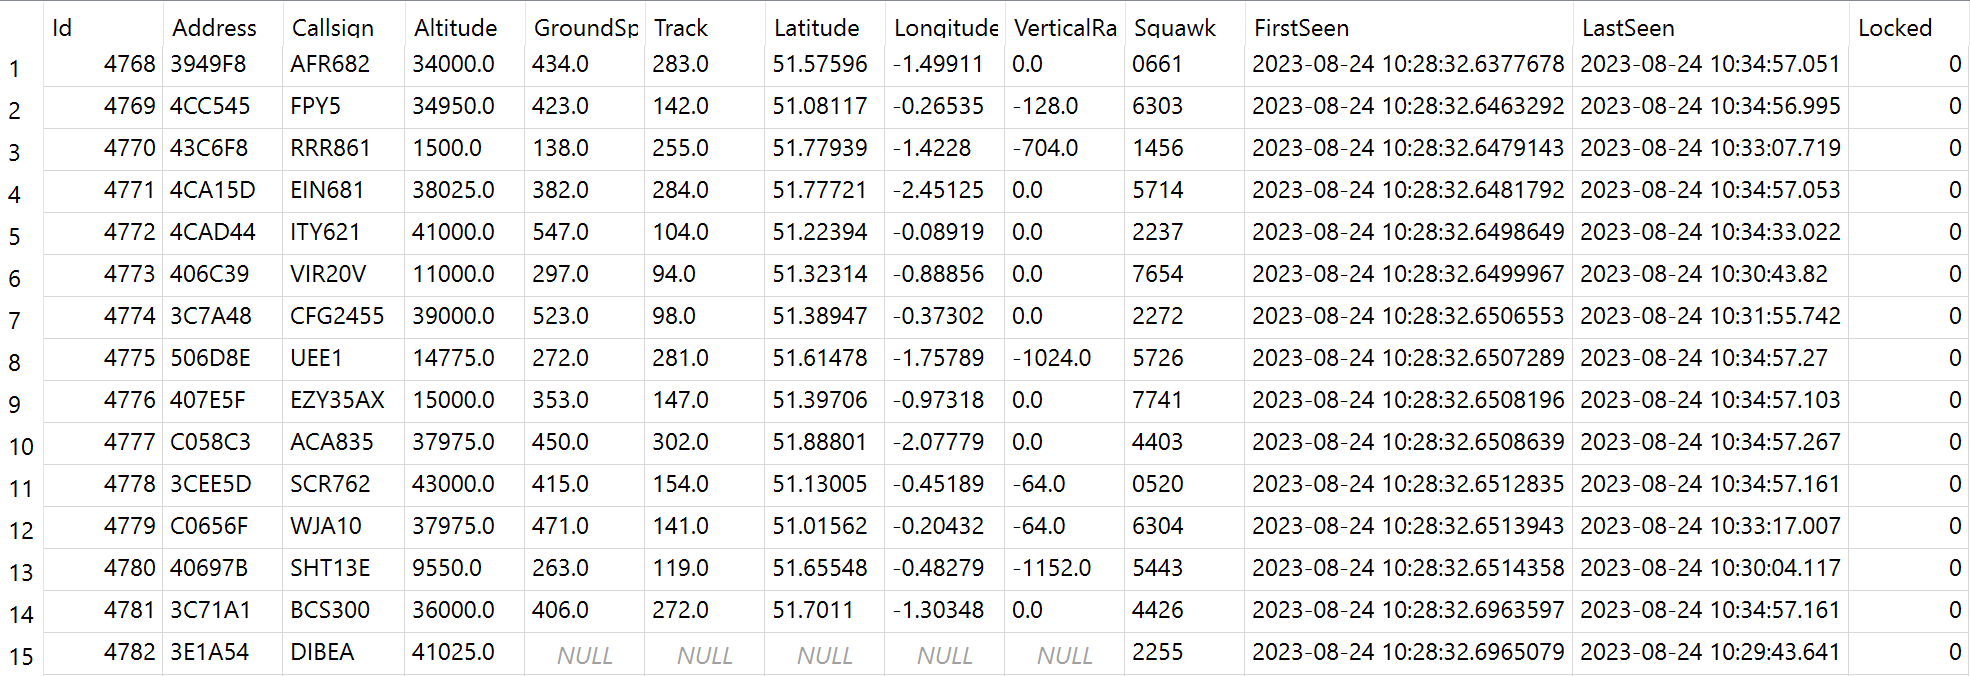
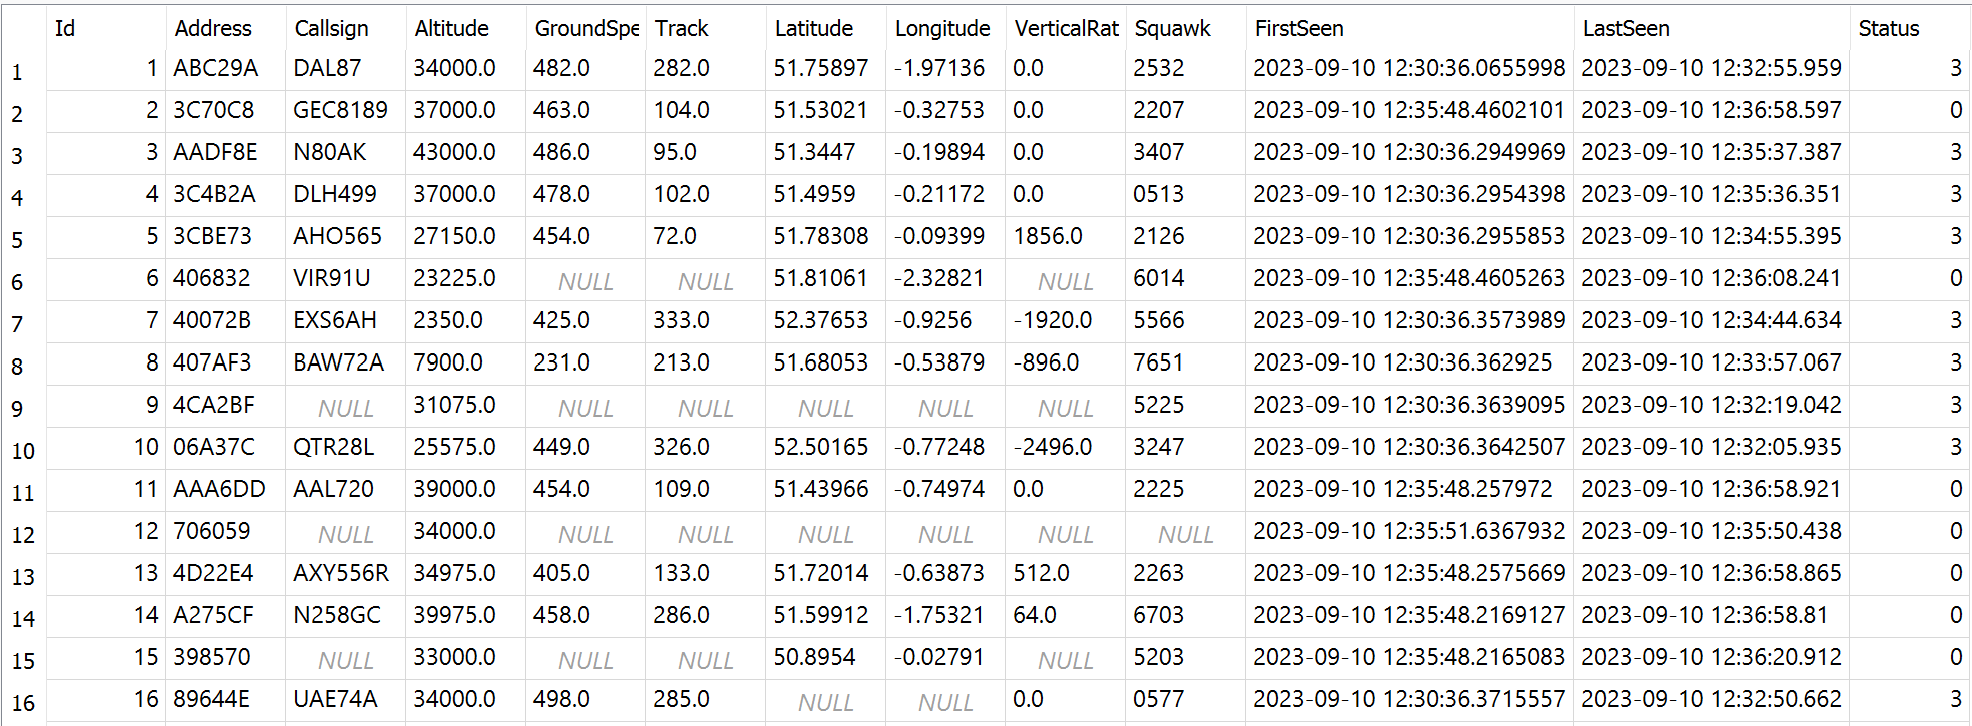
Replace Locked flag and Staleness with a single status

Changed region(s): [[0.0, 0.0, 1.0, 1.0], [0.0, 0.9009, 0.031, 0.932], [0.0, 0.8388, 0.031, 0.8698]]

diff --git a/src/BaseStationReader.Logic/Tracking/AircraftTracker.cs b/src/BaseStationReader.Logic/Tracking/AircraftTracker.cs
@@ -219,7 +219,7 @@ namespace BaseStationReader.Logic.Tracking
                     if (updated != null && original != updated)
                     {
                         aircraftProperty.SetValue(aircraft, updated);
-                        aircraft.Staleness = Staleness.New;
+                        aircraft.Status = TrackingStatus.Active;
                         changed = true;
                     }
                 }
@@ -259,7 +259,7 @@ namespace BaseStationReader.Logic.Tracking
                         }
                         else if (elapsed >= _staleMs)
                         {
-                            aircraft.Staleness = Staleness.Stale;
+                            aircraft.Status = TrackingStatus.Stale;
                             AircraftUpdated?.Invoke(this, new AircraftNotificationEventArgs
                             {
                                 Aircraft = aircraft,
@@ -268,7 +268,7 @@ namespace BaseStationReader.Logic.Tracking
                         }
                         else if (elapsed >= _recentMs)
                         {
-                            aircraft.Staleness = Staleness.Recent;
+                            aircraft.Status = TrackingStatus.Inactive;
                             AircraftUpdated?.Invoke(this, new AircraftNotificationEventArgs
                             {
                                 Aircraft = aircraft,

diff --git a/src/BaseStationReader.Tests/QueuedWriterTest.cs b/src/BaseStationReader.Tests/QueuedWriterTest.cs
@@ -165,7 +165,7 @@ namespace BaseStationReader.Tests
             var added = Task.Run(() => _aircraftWriter!.GetAsync(x => x.Address == Address)).Result;
             Assert.IsNotNull(added);
             Assert.IsTrue(added.Id > 0);
-            Assert.IsFalse(added.Locked);
+            Assert.AreNotEqual(TrackingStatus.Locked, added.Status);
 
             Push(new Aircraft
             {
@@ -205,7 +205,7 @@ namespace BaseStationReader.Tests
             var aircraft = Task.Run(() => _aircraftWriter!.GetAsync(x => x.Address == Address)).Result;
             Assert.IsNotNull(aircraft);
             Assert.IsTrue(aircraft.Id > 0);
-            Assert.IsFalse(aircraft.Locked);
+            Assert.AreNotEqual(TrackingStatus.Locked, aircraft.Status);
 
             _writer!.Stop();
             _writer.Start();
@@ -214,7 +214,7 @@ namespace BaseStationReader.Tests
             var locked = Task.Run(() => _aircraftWriter!.GetAsync(x => x.Address == Address)).Result;
             Assert.IsNotNull(locked);
             Assert.AreEqual(aircraft.Id, locked.Id);
-            Assert.IsTrue(locked.Locked);
+            Assert.AreEqual(TrackingStatus.Locked, aircraft.Status);
         }
 
         /// <summary>

diff --git a/src/BaseStationReader.Data/Migrations/20230910112721_AircraftStatus.Designer.cs b/src/BaseStationReader.Data/Migrations/20230910112721_AircraftStatus.Designer.cs
@@ -3,6 +3,7 @@ using System;
 using BaseStationReader.Data;
 using Microsoft.EntityFrameworkCore;
 using Microsoft.EntityFrameworkCore.Infrastructure;
+using Microsoft.EntityFrameworkCore.Migrations;
 using Microsoft.EntityFrameworkCore.Storage.ValueConversion;
 
 #nullable disable
@@ -10,9 +11,11 @@ using Microsoft.EntityFrameworkCore.Storage.ValueConversion;
 namespace BaseStationReader.Data.Migrations
 {
     [DbContext(typeof(BaseStationReaderDbContext))]
-    partial class BaseStationReaderDbContextModelSnapshot : ModelSnapshot
+    [Migration("20230910112721_AircraftStatus")]
+    partial class AircraftStatus
     {
-        protected override void BuildModel(ModelBuilder modelBuilder)
+        /// <inheritdoc />
+        protected override void BuildTargetModel(ModelBuilder modelBuilder)
         {
 #pragma warning disable 612, 618
             modelBuilder.HasAnnotation("ProductVersion", "7.0.10");

diff --git a/src/BaseStationReader.Data/BaseStationReaderDbContext.cs b/src/BaseStationReader.Data/BaseStationReaderDbContext.cs
@@ -20,8 +20,6 @@ namespace BaseStationReader.Data
         /// <param name="modelBuilder"></param>
         protected override void OnModelCreating(ModelBuilder modelBuilder)
         {
-            modelBuilder.Entity<Aircraft>().Ignore(e => e.Staleness);
-
             modelBuilder.Entity<Aircraft>(entity =>
             {
                 entity.ToTable("AIRCRAFT");
@@ -39,7 +37,7 @@ namespace BaseStationReader.Data
                 entity.Property(e => e.Longitude).HasColumnName("Longitude");
                 entity.Property(e => e.VerticalRate).HasColumnName("VerticalRate");
                 entity.Property(e => e.Squawk).HasColumnName("Squawk");
-                entity.Property(e => e.Locked).HasColumnName("Locked");
+                entity.Property(e => e.Status).HasColumnName("Status");
 
                 entity.Property(e => e.FirstSeen)
                     .IsRequired()

diff --git a/src/BaseStationReader.Data/Migrations/20230910112721_AircraftStatus.cs b/src/BaseStationReader.Data/Migrations/20230910112721_AircraftStatus.cs
@@ -1,0 +1,28 @@
+using Microsoft.EntityFrameworkCore.Migrations;
+
+#nullable disable
+
+namespace BaseStationReader.Data.Migrations
+{
+    /// <inheritdoc />
+    public partial class AircraftStatus : Migration
+    {
+        /// <inheritdoc />
+        protected override void Up(MigrationBuilder migrationBuilder)
+        {
+            migrationBuilder.RenameColumn(
+                name: "Locked",
+                table: "AIRCRAFT",
+                newName: "Status");
+        }
+
+        /// <inheritdoc />
+        protected override void Down(MigrationBuilder migrationBuilder)
+        {
+            migrationBuilder.RenameColumn(
+                name: "Status",
+                table: "AIRCRAFT",
+                newName: "Locked");
+        }
+    }
+}

diff --git a/src/BaseStationReader.UI/Views/MainWindow.axaml.cs b/src/BaseStationReader.UI/Views/MainWindow.axaml.cs
@@ -82,13 +82,13 @@ namespace BaseStationReader.UI.Views
             var aircraft = e.Row.DataContext as Aircraft;
             if (aircraft != null)
             {
-                switch (aircraft.Staleness)
+                switch (aircraft.Status)
                 {
-                    case Staleness.Stale:
+                    case TrackingStatus.Stale:
                         e.Row.Background = Brushes.Red;
                         e.Row.Foreground = Brushes.White;
                         break;
-                    case Staleness.Recent:
+                    case TrackingStatus.Inactive:
                         e.Row.Background = Brushes.Yellow;
                         e.Row.Foreground = Brushes.Black;
                         break;

diff --git a/src/BaseStationReader.Tests/AircraftLockManagerTest.cs b/src/BaseStationReader.Tests/AircraftLockManagerTest.cs
@@ -66,7 +66,7 @@ namespace BaseStationReader.Tests
             });
 
             Assert.IsTrue(aircraft.Id > 0);
-            Assert.IsFalse(aircraft.Locked);
+            Assert.AreNotEqual(TrackingStatus.Locked, aircraft.Status);
 
             var active = await _aircraftLocker!.GetActiveAircraft(Address);
             Assert.IsNull(active);
@@ -74,7 +74,7 @@ namespace BaseStationReader.Tests
             var retrieved = await _aircraftWriter.GetAsync(x => x.Address == Address);
             Assert.IsNotNull(retrieved);
             Assert.AreEqual(aircraft.Id, retrieved.Id);
-            Assert.IsTrue(aircraft.Locked);
+            Assert.AreEqual(TrackingStatus.Locked, aircraft.Status);
         }
 
         [TestMethod]

diff --git a/src/BaseStationReader.Logic/Database/QueuedWriter.cs b/src/BaseStationReader.Logic/Database/QueuedWriter.cs
@@ -57,10 +57,10 @@ namespace BaseStationReader.Logic.Database
         {
             // Set the locked flag on all unlocked records. This prevents confusing tracking of the same aircraft
             // on different flights
-            List<Aircraft> unlocked = await _aircraftWriter.ListAsync(x => !x.Locked);
+            List<Aircraft> unlocked = await _aircraftWriter.ListAsync(x => (x.Status != TrackingStatus.Locked));
             foreach (var aircraft in unlocked)
             {
-                aircraft.Locked = true;
+                aircraft.Status = TrackingStatus.Locked;
                 _queue.Enqueue(aircraft);
             }
 

diff --git a/src/BaseStationReader.Terminal/Logic/TrackerTableManager.cs b/src/BaseStationReader.Terminal/Logic/TrackerTableManager.cs
@@ -150,12 +150,12 @@ namespace BaseStationReader.Terminal.Logic
             // Use the aircraft's staleness to set the row colour
             var startColour = "";
             var endColour = "";
-            if (aircraft.Staleness == Staleness.Stale)
+            if (aircraft.Status == TrackingStatus.Stale)
             {
                 startColour = "[red]";
                 endColour = "[/]";
             }
-            else if (aircraft.Staleness == Staleness.Recent)
+            else if (aircraft.Status == TrackingStatus.Inactive)
             {
                 startColour = "[yellow]";
                 endColour = "[/]";

diff --git a/src/BaseStationReader.Logic/Database/AircraftLockManager.cs b/src/BaseStationReader.Logic/Database/AircraftLockManager.cs
@@ -29,7 +29,7 @@ namespace BaseStationReader.Logic.Database
             if (aircraft != null && (DateTime.Now - aircraft.LastSeen).TotalMilliseconds >= _timeToLock)
             {
                 // Timeout has been exceeded, so lock the record and return null
-                aircraft.Locked = true;
+                aircraft.Status = TrackingStatus.Locked;
                 await _writer.WriteAsync(aircraft);
                 aircraft = null;
             }

diff --git a/src/BaseStationReader.Entities/Tracking/Aircraft.cs b/src/BaseStationReader.Entities/Tracking/Aircraft.cs
@@ -46,8 +46,8 @@ namespace BaseStationReader.Entities.Tracking
         [Required]
         public DateTime LastSeen { get; set; }
 
-        public bool Locked { get; set; }
-        public Staleness Staleness { get; set; }
+        [Required]
+        public TrackingStatus Status { get; set; }
 
         public object Clone()
         {

diff --git a/src/BaseStationReader.Entities/Tracking/TrackingStatus.cs b/src/BaseStationReader.Entities/Tracking/TrackingStatus.cs
@@ -1,0 +1,10 @@
+namespace BaseStationReader.Entities.Tracking
+{
+    public enum TrackingStatus
+    {
+        Active,
+        Inactive,
+        Stale,
+        Locked
+    }
+}
